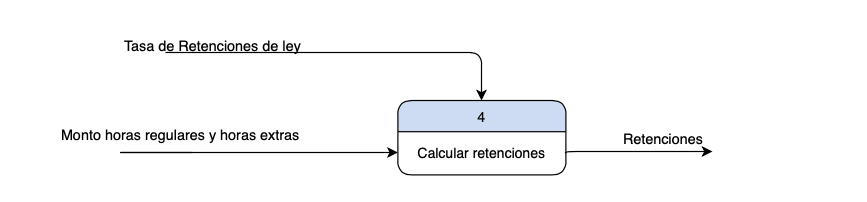
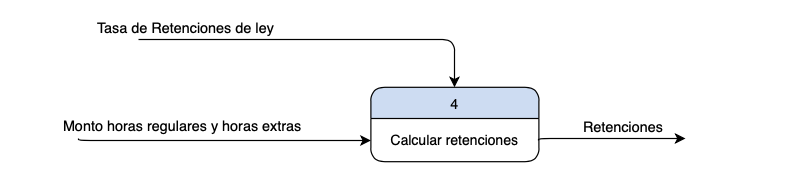
corrigiento links a las imagenes, corrigiendo documentos

Changed region(s): [[0.0611, 0.2674, 0.8866, 0.8824], [0.1223, 0.107, 0.5809, 0.2674]]

diff --git a/informe/4_descripcion_sistema_informacion.md b/informe/4_descripcion_sistema_informacion.md
@@ -20,88 +20,57 @@ El sistema de informacion que se esta desarrollando es un sisitema de nomina, nu
 
 **Diagrama de Flujo de Datos nivel 0**
 
-![Diagrama de Flujo de Datos nivel 0](./imgs/diagrama_contexto_nivel_0.png)
+![Diagrama de Flujo de Datos nivel 0](./imagenes/diagrama_contexto_nivel_0.png)
 
 <br/>
 
 **Diagrama de Flujo de Datos nivel 1**
-![Diagrama de Flujo de Datos nivel 0](./imgs/Diagrama_DFD_nivel_1_v1.png)
+![Diagrama de Flujo de Datos nivel 0](./imagenes/nivel_1/Diagrama_DFD_nivel_1_v2.png)
 
 <br/>
 
 ## Narrativa de los Procesos mostrados en el Diagrama de Flujo de Datos(DFD)
 
-`Proceso 1: Registrar informacion empleado`
+`Proceso 1: Registrar informacion de empleado`
 
-![Diagrama de Flujo de Datos nivel 1](./imgs/nivel_1/1.png)
+![Diagrama de Flujo de Datos nivel 1](./imagenes/nivel_1/1.png)
 
-Subproceso 1.1: Gregistro informacion <br/>
 Description: Tienen como tarea capturar toda la informacion del empleado, nombre, identificacion, fecha de ingreso a la compañia, el horario, el puesto a o area en la que desempeñara sus funciones, la cantidad de dinero que cobra por hora normal, y por hora extra, estado civil, direccion, numero de contacto entre otros. Y a la salida almacena dichos datos en el **Archivo maestro de empleado**.
 
 <br/>
 
 `Proceso 2: Registrar horas`
 
-![Diagrama de Flujo de Datos nivel 1](./imgs/nivel_1/2.png)
+![Diagrama de Flujo de Datos nivel 1](./imagenes/nivel_1/2.png)
 
-Subproceso 2.1: Calcular horas trabajadas <br/>
-Descripcion: Este se encarga de calcular las horas trabajadas en el dia, de acuerdo a la hora de entrada y a la hora de salida del empleado, esta informacion luego sera alimentada al subproceso 2.2.
-
-Subproceso 2.2: Registrar horas <br/>
-Description: Este toma las horas calculadas en el proceso anterior y las almacena en el Archivo de Horas por empleado.
+Descripcion: Este se encarga de calcular las horas trabajadas en el dia, de acuerdo a la hora de entrada y a la hora de salida del empleado, esta informacion luego sera almacenada en el Archivo de Horas por empleado.
 
 <br/>
 
 `Proceso 3: Calcular sueldo bruto`
 
-![Diagrama de Flujo de Datos nivel 1](./imgs/nivel_1/3.png)
+![Diagrama de Flujo de Datos nivel 1](./imagenes/nivel_1/3.png)
 
-Subproceso 3.1: Determinar horas extra y regulares <br/>
-Descripcion: Sealimenta de **D1** para obtener el registro de las horas registradas, tambien recibe informacion sobre el horario del empleado proveniente del proceso 3.2, de esta manera puede determinar cuantas horas son horas regulares y cuantas son horas extras, esta informacion sera enviad como "Reporte de horas" al subproceso 3.3.
-
-Subproceso 3.2: Extraer horario y precio por hora <br/>
-Descripcion: recibe informacion desde **D2** para obtener el horario el empleado que sera enviado al subproceso 3.1 y tambien enviar informacion sobre cuanto cobra el empleado por hora, ya sea regular o extra, esta otra informacion debe ser enviada al subproceso 3.3.
-
-Subproceso 3.3: Calcular montos <br/>
-Descripcion: Luego de obtener la informacion sobre cuantas horas son horas normales, cuantas son horas extras y el precio que debe pagarce por cada hora, este proceso procedera a calcular los montos a pagar por concepto de horas regulares y horas extras.
-
-Subproceso 3.4: Calcular sueldo bruto <br/>
-Descripcion: Este proceso ya solo tendria que sumar los montos a pagar por horas regulares y horas extras, y asi producir el sueldo o salario bruto. Esto no se realiza en el subproceso 3.3 debido a que quiero alimentar esa informacion por separado al **proceso 4**.
+Descripcion: Se alimenta de **D1** para obtener el registro de las horas trabajadas por el empleado, tambien recibe desde **D2** informacion sobre el horario del empleado y el precio o tarifa de las horas regulares y las horas extras, de esta manera puede determinar cuantas horas son horas regulares y cuantas son horas extras y tambien el monto a pagar por cada una respectivamente, luego suma ambos resultados para asi obtener el sueldo bruto.
 
 `Proceso 4: Calcular retenciones`
 
-![Diagrama de Flujo de Datos nivel 1](./imgs/nivel_1/4.png)
+![Diagrama de Flujo de Datos nivel 1](./imagenes/nivel_1/4.png)
 
-Subproceso 4.1: Procesar montos a pagar por horas <br/>
-Descripcion: Debido a que ciertas retenciones se calculan solo en base a las horas regulares, como el AFP y el SFS, y otras se calculan en base a horas regulares y horas extras, este proceso se encargar de los montos adecuados a los demas subprocesos.
-
-Subproceso 4.2: Calcular SFS <br/>
-Descripcion: Recibe el valor de la tasa de descuento del SFS desde **D3**, y el monto a pagar por horas regulares, con esta informacion calcula el monto a retener por concepto de Seguro Familiar de Salud.
-
-Subproceso 4.3: Calcular AFP <br/>
-Descripcion: Calcula el monto a retener para la Administradora de Fondos de Pensiones, con los valores provistos por el subproceso 4.1 y 4.2 y la informacion proveniente de **D3**.
-
-Subproceso 4.4: Calcular ISR <br/>
-Descripcion: Calcular el impuesto sobre la renta sobre el salario en bruto, el cual puede obtenerse a partir de los montos de horas regulares y horas extras, y la informacion sobre la tasa de contribucion proveniente de **D3**
-
-Subproceso 4.5: Cacular total retenciones <br/>
-Descripcion: conlos valores obtenidos de los subprocesos anteriores calcular el monto total de las retenciones a aplicar al sueldo del empleado.
+Descripcion: Se encarga de calular las retenciones de ley (AFP, SFS, IRS) en base al total a pagar por concepto horas regulares y horas extras.
 
 `Proceso 5: Calcular sueldo neto`
 
-![Diagrama de Flujo de Datos nivel 1](./imgs/nivel_1/5.png)
+![Diagrama de Flujo de Datos nivel 1](./imagenes/nivel_1/5.png)
 
-Subproceso 5.1: Calcular sueldo neto <br/>
-Descripcion: La tarea de este subproceso es la de tomar el sueldo bruto y las retenciones conrespondientes y determinar el sueldo neto.
+Descripcion: La tarea de este subproceso es la de tomar el sueldo bruto, las retenciones calculadas y algun otro descuento aplicada a algun empleado y con esta informacion determinar el sueldo neto a pagar.
 
 <br/>
 
 `Proceso 6: Desplegar informacion`
 
-![Diagrama de Flujo de Datos nivel 1](./imgs/nivel_1/6.png)
+![Diagrama de Flujo de Datos nivel 1](./imagenes/nivel_1/6.png)
 
-Subproceso 6.1: Registrar informacion <br/>
-Descripcion: Consolidar la informacion sobre sueldo neto, suueldo bruto y retenciones. Registrar esta informacion en el registro del empleado y generar un informe que sera enviado al subproceso 6.2.
+Descripcion: Consolidar la informacion sobre sueldo neto, suueldo bruto, retenciones y descuentons, mostrar dicha informacion al usuario y registrarla en nuestra base de datos.
 
-Subproceso 6.2: Desplegar informacion <br/>
-Descripcion: Muestra un informe sobre el pago a realizar al empleado.
+[Go back](../README.md)

diff --git a/informe/7_diccionario_datos.md b/informe/7_diccionario_datos.md
@@ -1,0 +1,41 @@
+# 7. Crear el Diccionario de Datos del Sistema de Información
+`Proceso 1`
+![Diccionario de datos](./imagenes/nivel_1/1.png)
+
+<xmp>Informacion a registrar = nombre + apellido + edad + sexo + estado civil </xmp>
+<xmp>                          + cedula + numero seguridad social + direccion </xmp>
+<xmp>                          + puesto a desempeñar + Horario + Numero de contacto </xmp>
+<xmp>                          + precio por hora regular + precio por hora extra </xmp>
+<br/>
+`Proceso 2`
+![Diccionario de datos](./imagenes/nivel_1/2.png)
+Hora de entrada y salida = Hora de entrada + Hora de salida
+<br/>
+Registro de Horas = cantidad de horas trabajadas
+
+<br/>
+
+`Proceso 3`
+![Diccionario de datos](./imagenes/nivel_1/3.png)
+Horario y precio por horas de empleado = Horario del empleado + precio de hora regular + precio de hora extra
+<br/>
+Horas registradas = total de horas trabajadas por el empleado
+<br/>
+Monto horas regulares y horas extras = Monto a pagar por horas regulares + monto a pagar por horas extras <br/>
+Sueldo bruto = Sueldo total antes de restar las retenciones de ley y demas descuentos
+
+<br/>
+
+`Proceso 4`
+![Diccionario de datos](./imagenes/nivel_1/4.png)
+Tasa de retenciones de ley = tasa de AFP + tasa de SFS + tasa de ISR <br/>
+Retenciones = Monto a pagar por concepto de AFP, SFS e ISR
+
+<br/>
+
+`Proceso 5`
+![Diccionario de datos](./imagenes/nivel_1/5.png)
+Otros Descuentos = Cualquier otro descuento que deba aplicarse al empleado <br/>
+Sueldo neto = sueldo restante luego de deducir las retenciones de ley y demas descuentos.
+
+<br/>

diff --git a/informe/1_introduccion.md b/informe/1_introduccion.md
@@ -4,9 +4,6 @@ En este documento se hace la descripción general del sistema de nomina que hemo
 
 Empezamos por dar una descripción general de la empresa, su misión, visión, valores y su organización, para luego pasar a describir el sistema de información y el flujo de datos. Luego se muestra el modelo de datos que hemos creado y en las secciones subsiguientes pasamos a la creación de nuestra base de datos para nuestro sistema.
 
--- Editar --
-Por ultimo pasamos a presentar nuestro prototipo, el cual hemos desarrollado en base a tecnologías web, esto debido a la facilidad de implementación tanto del backend como del frontend que ofrecen los lenguajes de programación web, así como también a la ubicuidad de la red, por lo que nuestra aplicación podría
-en teoría ser accedida desde cualquier dispositivo con conexión a internet.
--- Editar --
+Por ultimo pasamos a presentar nuestro prototipo, el cual hemos desarrollado en base a tecnologías web, esto debido a la facilidad de implementación tanto del backend como del frontend que ofrecen los lenguajes de programación web, así como también a la ubicuidad de la red, por lo que nuestra aplicación podría en teoría ser accedida desde cualquier dispositivo con conexión a internet.
 
 [Go back](../README.md)

diff --git a/informe/3_descripcion_empresa.md b/informe/3_descripcion_empresa.md
@@ -31,7 +31,7 @@ Nos caracterizamos por ser:
 
 ## 3. Organigrama de la empresa
 
-![Organigrama de la empresa](./imgs/organigrama.png)
+![Organigrama de la empresa](./imagenes/organigrama.png)
 
 En esta empresa al igual que en muchas de las empresas dentro de la categoría **MIPyME**, la gerencia y/o Administración de la misma se lleva a cabo por la dueña de la empresa. El area de caja cuenta con dos personas, y el area de ventas con las otras 2 personas mas.
 

diff --git a/informe/5_modelo_de_datos.md b/informe/5_modelo_de_datos.md
@@ -1,2 +1,5 @@
 # 5. Diagramar el Modelo de Datos del Sistema de Información a Diseñar
-![Modelo de Datos](./imgs/Modelo_de_datos_v2.2.png)
+
+![Modelo de Datos](./imagenes/Modelo_de_datos_v2.2.png)
+
+[Go back](../README.md)
